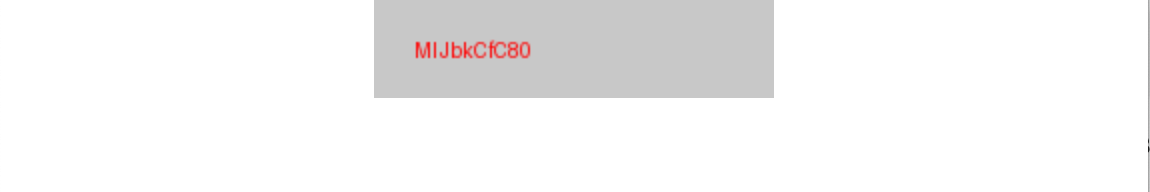
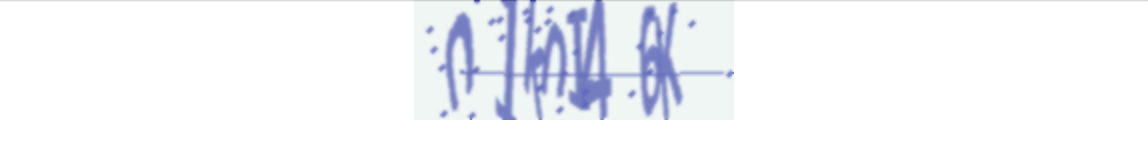
Updates for week4

Changed region(s): [[0.0, 0.0, 1.0, 0.7317]]

diff --git a/week4/code/partAppAssignments/api.py b/week4/code/partAppAssignments/api.py
@@ -9,6 +9,7 @@ from io import BytesIO
 import random
 import string
 from PIL import Image, ImageDraw
+from captcha.image import ImageCaptcha
 
 app = Flask(__name__)
 
@@ -77,18 +78,18 @@ def barcode_generator():
 @app.route('/captcha')
 def captcha():
     captcha_text = ''.join(random.choices(string.ascii_letters + string.digits, k=random.randint(5, 10)))
-    img = Image.new('RGB', (200, 50), color = (200, 200, 200))
-    d = ImageDraw.Draw(img)
-    d.text((20,20), captcha_text, fill=(255, 0, 0))
+    image = ImageCaptcha()
 
+    image.generate(captcha_text)
     captcha_storage = BytesIO()
-    img.save(captcha_storage, 'PNG')
+    
+    image.write(captcha_text, captcha_storage, 'PNG')
     captcha_storage.seek(0)
-
     response = make_response(captcha_storage.read())
     response.headers.set('Content-Type', 'image/png')
     response.headers.set('X-Nastia-Captcha-Value', captcha_text)
     return response
+
 
 if __name__ == '__main__':
     app.run(port=3132)
